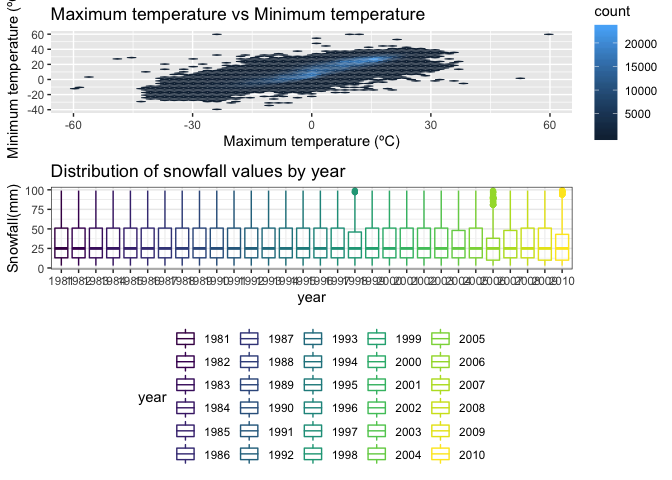
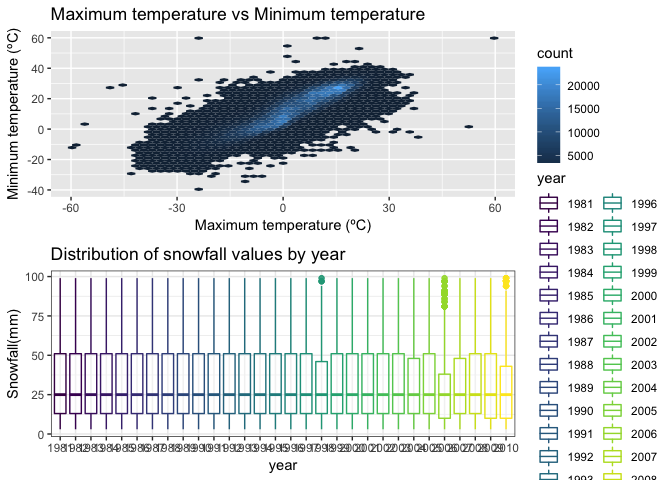
revise

diff --git a/p8105_hw3_kz2334.md b/p8105_hw3_kz2334.md
@@ -322,7 +322,7 @@ ny_noaa %>%
 NY NOAA dataset tells imformation about snow weather in NYC.
 
 -   The size of the dataset is (2595176, 7).
--   It contains integer, date and chracter variables.
+-   It is a dataframe, contains integer, date and chracter variables.
 -   tmax and tmin have the most missing values, extent to around 1 million.This is because about one half of the stations report precipitation only.
 -   The maximum snowfall in one day is 10160 mm.
 -   The mean of precipitation is 2.98 mm.
@@ -430,7 +430,10 @@ plot1 = ny_noaa %>%
 plot2 = ny_noaa %>% 
   filter(snow > 0 & snow < 100) %>% 
   mutate(year = as.factor(year)) %>% 
-  ggplot() +
+  ggplot() + 
+  theme(axis.title.x=element_blank(), 
+     axis.text.x=element_blank(), 
+     axis.ticks.x=element_blank()) +
   geom_boxplot(aes(x = year, y = snow, color = year), alpha = .4) + 
   labs(
     title = "Distribution of snowfall values by year",
@@ -438,8 +441,7 @@ plot2 = ny_noaa %>%
     y = "Snowfall(mm)"
   ) +
   viridis::scale_color_viridis(discrete = TRUE) + 
-  theme_bw() + 
-  theme(legend.position = "bottom")
+  theme_bw() 
 
 plot1 / plot2
 ```
